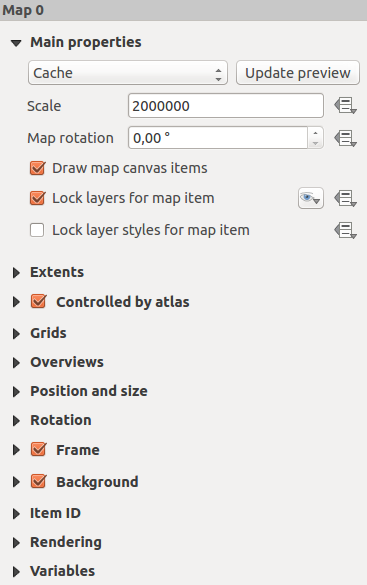
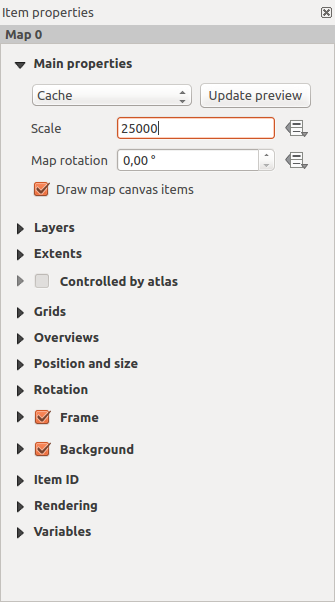
Layers settings in map item properties update Fixes 1027

Changed region(s): [[0.0, 0.0, 1.0, 1.0]]

diff --git a/source/docs/user_manual/print_composer/composer_items/composer_map.rst b/source/docs/user_manual/print_composer/composer_items/composer_map.rst
@@ -61,41 +61,66 @@ tab provides the following functionalities (see figure_composer_map_):
 
    Map Item properties Tab
 
-* The **Preview** area allows you to define the preview modes 'Rectangle', 'Cache'
-  and 'Render', as described above. If you change the view on the QGIS map canvas by changing
-  vector or raster properties, you can update the Print Composer view by selecting the
-  map element in the Print Composer and clicking the **[Update preview]** button.
-* The field :guilabel:`Scale` |selectNumber| sets a manual scale.
-* The field :guilabel:`Map rotation` |selectNumber| allows you to
-  rotate the map element content clockwise in degrees. The rotation of the map view can be imitated
-  here. Note that a correct coordinate frame can only be added with the default value 0 and that
-  once you defined a :guilabel:`Map rotation` it currently cannot be changed.
-* |checkbox| :guilabel:`Draw map canvas items` lets you show annotations that may be placed
-  on the map canvas in the main QGIS window.
-* You can choose to lock the layers shown on a map item. Check |checkbox|
-  :guilabel:`Lock layers for map item`.
-  After this is checked, any layer that would be displayed or hidden in the main QGIS window
-  will not appear or be hidden in the map item of the Composer. But style and labels of a
-  locked layer are still refreshed according to the main QGIS interface.
-  You can prevent this by using :guilabel:`Lock layer styles for map item`.
-* The |showPresets| button allows you to add quickly all the presets views you
-  have prepared in QGIS.
-  Clicking on the |showPresets| button you will see the list of all the preset views:
-  just select the preset you want to display.
-  The map canvas will automatically lock the preset layers by enabling the |checkbox|
-  :guilabel:`Lock layers for map item`: if you want to unselect the preset, just uncheck the
-  |checkbox| and press the |draw| button. See :ref:`label_legend` to find out how to
-  create presets views.
+* The **Preview** drop-down menu allows you to select one of the preview modes
+  'Rectangle', 'Cache' and 'Render', as described above. If you change the
+  view on the QGIS map canvas by changing vector or raster properties, you can
+  update the Print Composer view by selecting the map element and clicking
+  the **[Update preview]** button.
+* The field :guilabel:`Scale` |selectNumber| manually sets the map item scale.
+* The field :guilabel:`Map rotation` |selectNumber| allows you to rotate the
+  map element content clockwise in degrees. The rotation of the map
+  canvas can be imitated here. Note that a correct coordinate frame can only be
+  added with the default value 0 and that once you defined a :guilabel:`Map
+  rotation` it currently cannot be changed.
+* |checkbox| :guilabel:`Draw map canvas items` lets you show annotations that
+  may be placed on the map canvas in the main QGIS window.
+
+Layers
+------
+
+The :guilabel:`Layers` dialog of the map item tab provides the following
+functionality (see figure_composer_map_layers_):
+
+.. _Figure_composer_map_layers:
+
+.. figure:: /static/user_manual/print_composer/map_layers.png
+   :align: center
+
+   Map Layers Dialog
+
+* To lock the layers shown on a map item to the current map canvas. Check
+  |checkbox| :guilabel:`Lock layers`. After this option is enabled, any
+  changes on the layers visibility on the main QGIS window won't affect the map
+  item of the Composer. Nevertheless, style and labels of locked layers
+  are still refreshed according to QGIS's main window.
+  You can prevent this by using :guilabel:`Lock styles for layers`.
+* Using the |showPresets| button you can lock the map item's layers to one of
+  the visibility presets you have prepared in QGIS (see :ref:`label_legend` to
+  find out how to create visibility presets).
+  Clicking the |showPresets| button will show the list of all the preset
+  views. Select the preset you want to display. The map canvas will lock the
+  preset layers automatically by enabling the |checkbox| :guilabel:`Lock
+  layers`. You can deselect the preset by unchecking the  |checkbox| and
+  press the |draw| button.
 
   Locked layers in the map can also be :ref:`data-defined <data_defined>`, using
   the |dataDefined| icon beside the option. When used, this overrides the
-  selection set in the drop-down list. You need to pass a list of layers separated
-  by ``|`` character.
+  selection set in the drop-down list. You need to pass a list of layers
+  separated by ``|`` character.
   The following example locks the map item to use only layers ``layer 1`` and
   ``layer 2``::
 
     concat ('layer 1', '|', 'layer 2')
 
+* With the :guilabel:`Lock layers` option enabled and set to a preset, the
+  map item layers won't be updated if the preset is changed in QGIS's main
+  window. So, if you want to keep the map item constantly updated
+  with a visibility preset, use the |selectString| :guilabel:`Follow
+  visibility preset` and set the preset you want. Any changes applied to the
+  preset in QGIS's main window will also show in the map item. In this
+  case, the :guilabel:`Lock styles for layers` option will be disabled because
+  :guilabel:`Follow visibility preset` also updates the style and labels of
+  the visibility preset layers.
 
 Extents
 -------
